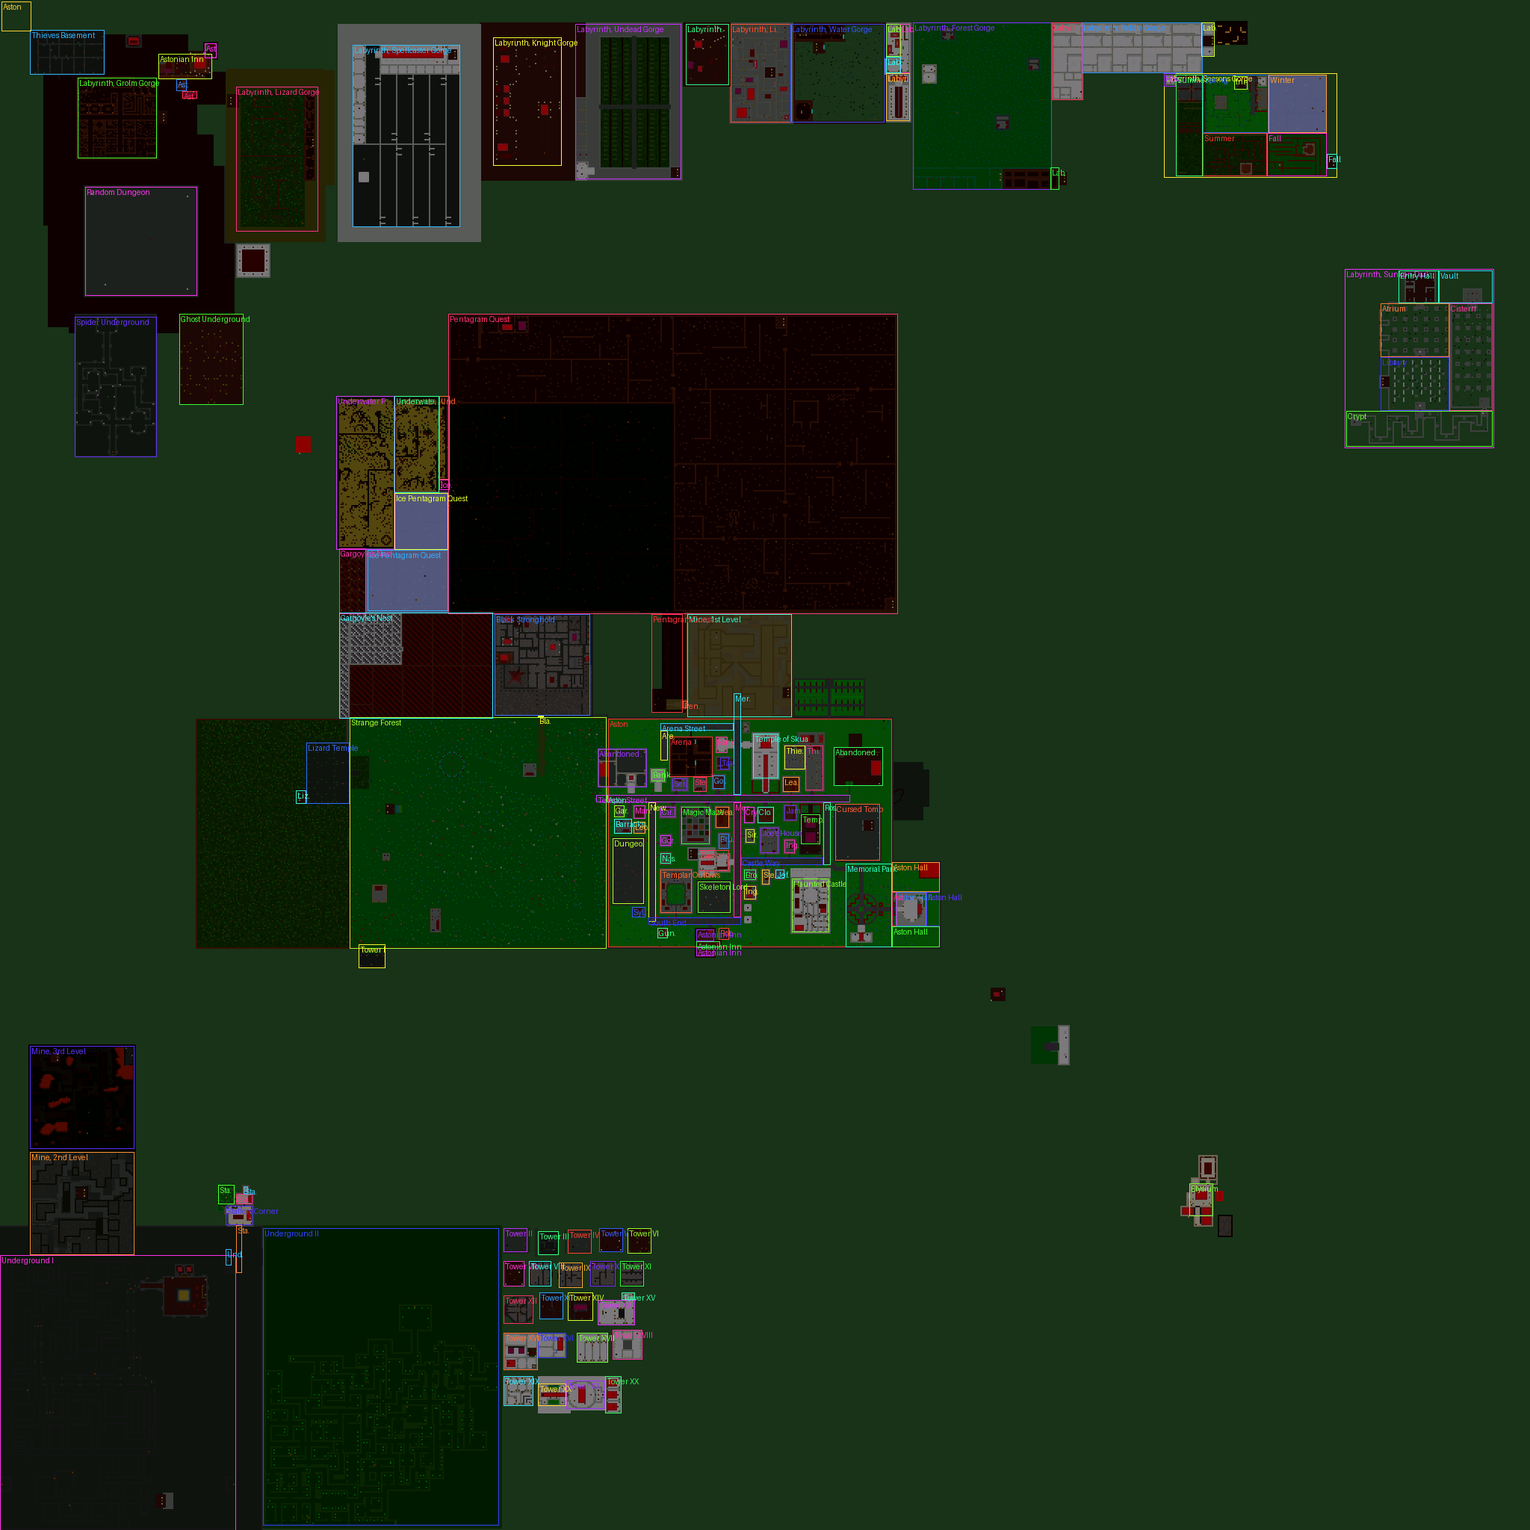
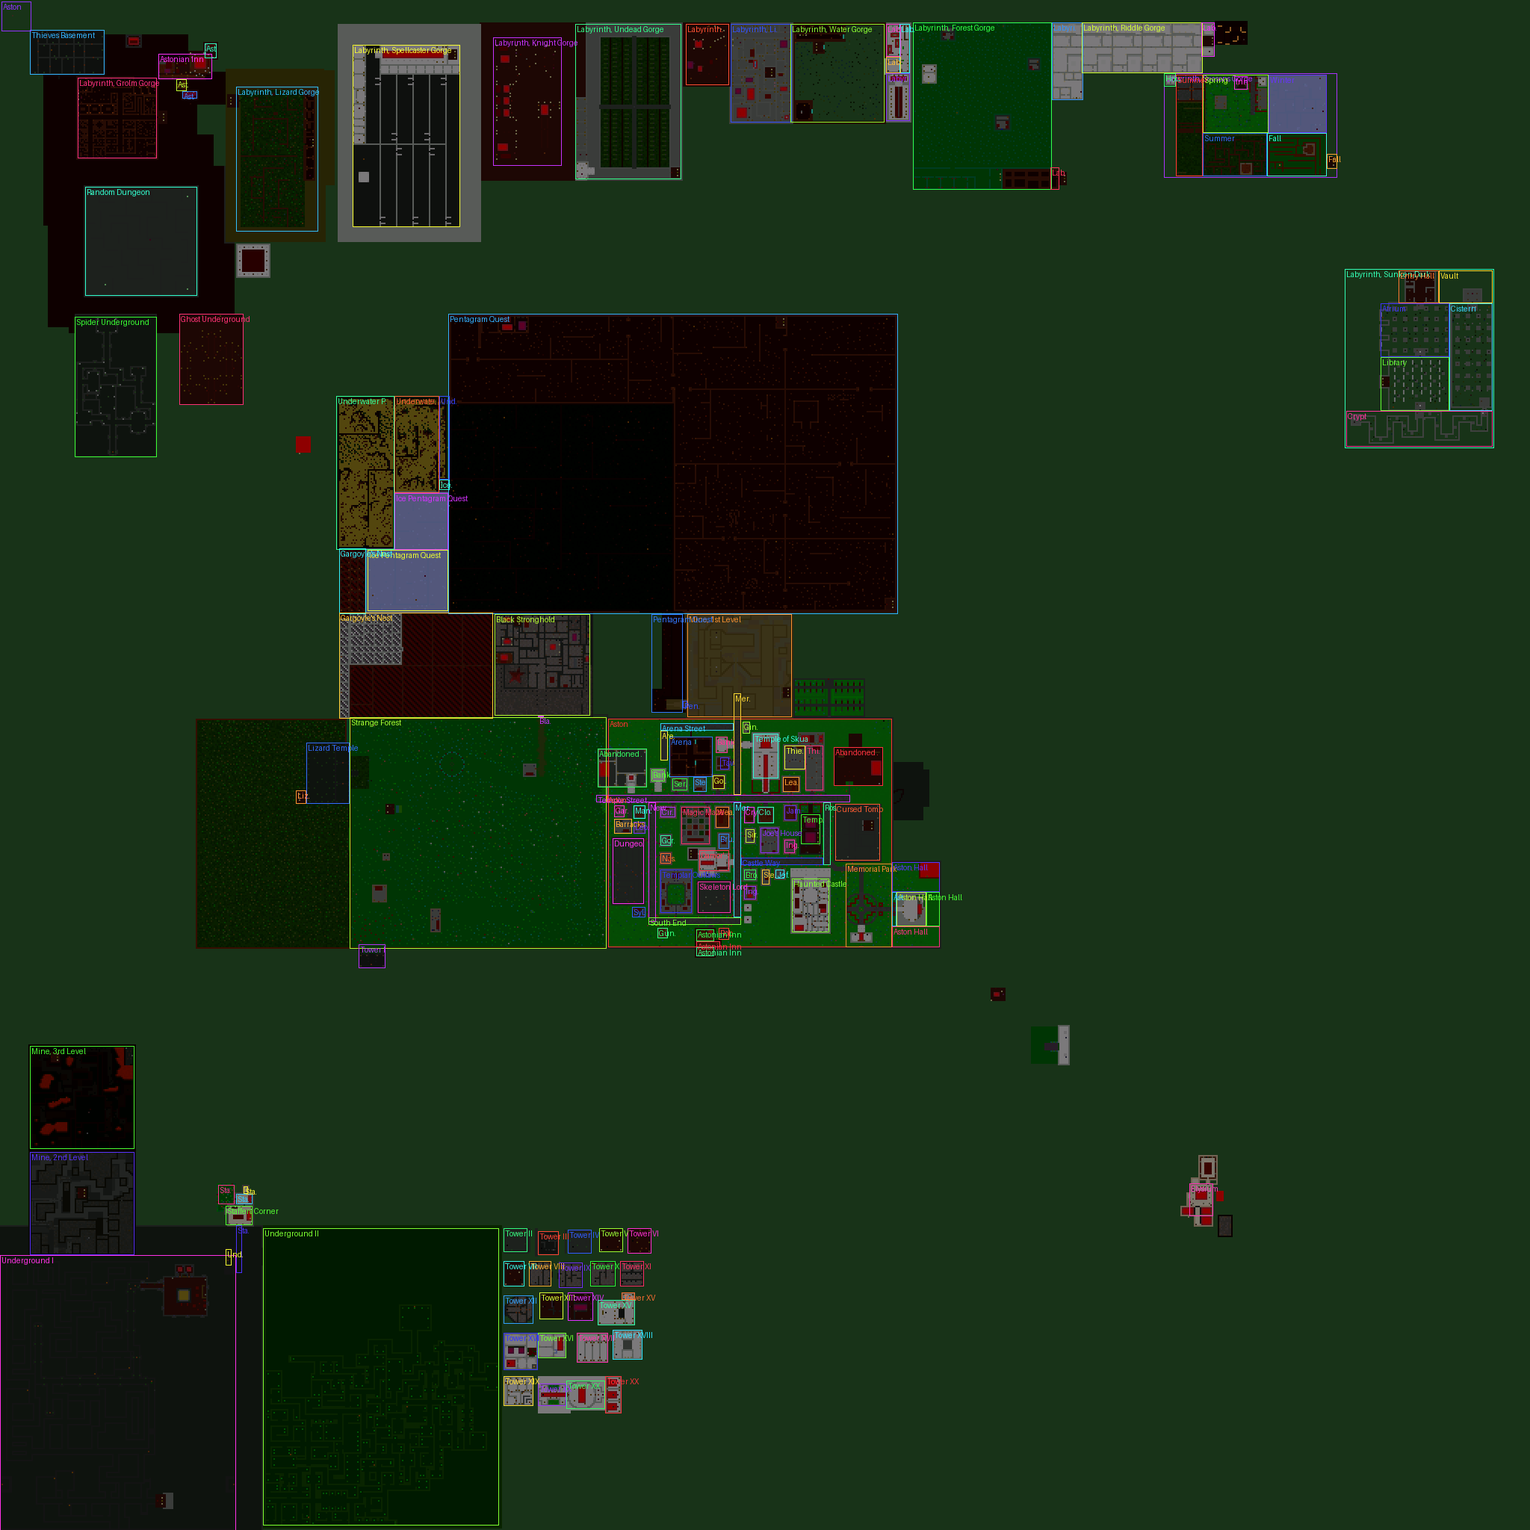
Aston zone names: Gina's Shop
Claude-Session: https://claude.ai/code/session_01MSjWpMgByR7PswdtguveBk

diff --git a/server/area.c b/server/area.c
@@ -57,6 +57,7 @@ struct area area[]={
         {621,440,       627,446,        "Gunther's House",              0},
         {621,481,       628,487,        "Robin's House",                0},
         {607,423,       613,431,        "Syleia's House",               0},     // just south of the Dungeon of Doors
+        {483,497,       490,501,        "Gina's Shop",                  0},     // by Merchant's Way, right outside the mines
         {539,411,       546,417,        "Garna's Shop",                 0},
         {539,424,       547,431,        "Manfred's House",              0},
         {548,411,       557,422,        "Barracks",                     1},

diff --git a/docs/world_zones.md b/docs/world_zones.md
@@ -43,125 +43,126 @@ Shown by `/who`, by NPCs when asked where you are, and in server logs. A spot in
 | 33 | Gunther's House | 621,440 | 627,446 | "in Gunther's House" |
 | 34 | Robin's House | 621,481 | 628,487 | "in Robin's House" |
 | 35 | Syleia's House | 607,423 | 613,431 | "in Syleia's House" |
-| 36 | Garna's Shop | 539,411 | 546,417 | "in Garna's Shop" |
-| 37 | Manfred's House | 539,424 | 547,431 | "in Manfred's House" |
-| 38 | Barracks | 548,411 | 557,422 | "in the Barracks" |
-| 39 | Leopold's House | 550,424 | 557,431 | "in Leopold's House" |
-| 40 | Serena's House | 521,450 | 528,459 | "in Serena's House" |
-| 41 | Magic Maze | 540,456 | 564,474 | "in the Magic Maze" |
-| 42 | Steven's House | 520,464 | 529,472 | "in Steven's House" |
-| 43 | Golden Armor Shop | 519,477 | 527,484 | "in the Golden Armor Shop" |
-| 44 | New Street | 537,434 | 616,438 | "on New Street" |
-| 45 | Gordon's House | 559,442 | 565,448 | "in Gordon's House" |
-| 46 | Nasir's House | 571,442 | 577,448 | "in Nasir's House" |
-| 47 | Templar Outlaws | 582,442 | 610,462 | "at Templar Outlaws" |
-| 48 | South End | 614,434 | 618,495 | "on South End" |
-| 49 | Skeleton Lord | 590,467 | 610,488 | "at Skeleton Lord" |
-| 50 | Merchant's Way | 537,491 | 613,495 | "on Merchant's Way" |
-| 51 | Merchant's Way | 464,491 | 531,495 | "on Merchant's Way" |
-| 52 | Ingrid's House | 593,498 | 601,505 | "in Ingrid's House" |
-| 53 | Abandoned Kwai Clan Hall | 501,400 | 526,432 | "in the Abandoned Kwai Clan Hall" |
-| 54 | Abandoned Gorn Clan Hall | 500,558 | 525,590 | "in the Abandoned Gorn Clan Hall" |
-| 55 | Arena | 493,448 | 519,476 | "in the Arena" |
-| 56 | Black Stronghold | 411,331 | 478,394 | "in the Black Stronghold" |
-| 57 | Dungeon of Doors | 561,410 | 604,430 | "in the Dungeon of Doors" |
-| 58 | Random Dungeon | 125,57 | 197,131 | "in the Random Dungeon" |
-| 59 | Mine, 1st Level | 411,460 | 479,529 | "in the Mine, 1st Level" |
-| 60 | Mine, 2nd Level | 771,20 | 839,89 | "in the Mine, 2nd Level" |
-| 61 | Mine, 3rd Level | 700,20 | 768,89 | "in the Mine, 3rd Level" |
-| 62 | Labyrinth, Grolm Gorge | 52,52 | 105,104 | "in the Labyrinth, Grolm Gorge" |
-| 63 | Labyrinth, Lizard Gorge | 58,158 | 154,212 | "in the Labyrinth, Lizard Gorge" |
-| 64 | Labyrinth, Spellcaster Gorge | 30,236 | 151,307 | "in the Labyrinth, Spellcaster Gorge" |
-| 65 | Labyrinth, Knight Gorge | 25,330 | 110,375 | "in the Labyrinth, Knight Gorge" |
-| 66 | Labyrinth, Undead Gorge | 16,385 | 119,455 | "in the Labyrinth, Undead Gorge" |
-| 67 | Labyrinth, Undead Gorge | 16,459 | 56,487 | "in the Labyrinth, Undead Gorge" |
-| 68 | Labyrinth, Light&Dark Gorge | 16,489 | 81,529 | "in the Labyrinth, Light&Dark Gorge" |
-| 69 | Labyrinth, Water Gorge | 16,529 | 81,591 | "in the Labyrinth, Water Gorge" |
-| 70 | Labyrinth, Final Entry | 16,593 | 37,602 | "in the Labyrinth, Final Entry" |
-| 71 | Labyrinth, Final Preparations | 16,602 | 48,608 | "in the Labyrinth, Final Preparations" |
-| 72 | Labyrinth, Final Test | 38,593 | 48,602 | "in the Labyrinth, Final Test" |
-| 73 | Labyrinth, Final Reward | 49,593 | 80,608 | "in the Labyrinth, Final Reward" |
-| 74 | Labyrinth, Forest Gorge | 15,611 | 126,703 | "in the Labyrinth, Forest Gorge" |
-| 75 | Labyrinth, Forest Gorge | 112,703 | 126,708 | "in the Labyrinth, Forest Gorge" |
-| 76 | Labyrinth, Riddle Gorge | 15,704 | 66,724 | "in the Labyrinth, Riddle Gorge" |
-| 77 | Labyrinth, Riddle Gorge | 15,724 | 48,804 | "in the Labyrinth, Riddle Gorge" |
-| 78 | Labyrinth, Riddle Gorge | 15,804 | 37,812 | "in the Labyrinth, Riddle Gorge" |
-| 79 | Labyrinth, Sunken Dark | 180,900 | 299,999 | "in the Labyrinth, Sunken Dark" |
-| 80 | Entry Hall | 181,936 | 202,962 | "in the Entry Hall" |
-| 81 | Atrium | 203,924 | 238,969 | "in the Atrium" |
-| 82 | Library | 239,924 | 274,969 | "in the Library" |
-| 83 | Crypt | 275,901 | 298,998 | "in the Crypt" |
-| 84 | Cistern | 203,970 | 274,998 | "in the Cistern" |
-| 85 | Vault | 181,963 | 202,998 | "in the Vault" |
-| 86 | Labyrinth, Seasons Gorge | 49,779 | 118,894 | "in the Labyrinth, Seasons Gorge" |
-| 87 | Hourglass Chamber | 49,779 | 57,786 | "in the Hourglass Chamber" |
-| 88 | Summer | 50,787 | 117,804 | "in Summer" |
-| 89 | Summer | 89,805 | 117,847 | "in Summer" |
-| 90 | Spring | 50,805 | 88,848 | "in Spring" |
-| 91 | Inn | 51,826 | 59,834 | "in the Inn" |
-| 92 | Fall | 89,848 | 117,887 | "in Fall" |
-| 93 | Fall | 103,888 | 112,894 | "in Fall" |
-| 94 | Winter | 50,849 | 88,887 | "in Winter" |
-| 95 | Spider Underground | 212,50 | 305,104 | "in the Spider Underground" |
-| 96 | Ghost Underground | 210,120 | 270,162 | "in the Ghost Underground" |
-| 97 | Pentagram Quest | 210,300 | 410,600 | "in the Pentagram Quest" |
-| 98 | Ice Pentagram Quest | 368,246 | 408,299 | "in the Ice Pentagram Quest" |
-| 99 | Ice Pentagram Quest | 330,264 | 367,299 | "in the Ice Pentagram Quest" |
-| 100 | Underwater Pentagram Quest | 265,225 | 367,263 | "in the Underwater Pentagram Quest" |
-| 101 | Underwater Pentagram Quest | 265,264 | 329,293 | "in the Underwater Pentagram Quest" |
-| 102 | Underwater Pentagram Quest | 265,294 | 320,300 | "in the Underwater Pentagram Quest" |
-| 103 | Underground II | 822,176 | 1020,333 | "in the Underground II" |
-| 104 | Elysium | 792,796 | 813,811 | "in the Elysium" |
-| 105 | Gargoyle's Nest | 367,227 | 410,244 | "in the Gargoyle's Nest" |
-| 106 | Gargoyle's Nest | 410,227 | 480,329 | "in the Gargoyle's Nest" |
-| 107 | Aston | 1,1 | 20,20 | "in Aston" |
-| 108 | Astonian Inn | 622,466 | 629,477 | "in the Astonian Inn" |
-| 109 | Astonian Inn | 630,466 | 633,481 | "in the Astonian Inn" |
-| 110 | Astonian Inn | 61,122 | 65,131 | "in the Astonian Inn" |
-| 111 | Astonian Inn | 53,118 | 60,124 | "in the Astonian Inn" |
-| 112 | Astonian Inn | 36,106 | 52,141 | "in the Astonian Inn" |
-| 113 | Astonian Inn | 29,137 | 38,144 | "in the Astonian Inn" |
-| 114 | Memorial Park | 578,566 | 633,596 | "in the Memorial Park" |
-| 115 | Staffers Corner | 820,158 | 851,161 | "in the Staffers Corner" |
-| 116 | Staffers Corner | 807,151 | 819,168 | "in the Staffers Corner" |
-| 117 | Staffers Corner | 793,146 | 805,156 | "in the Staffers Corner" |
-| 118 | Staffers Corner | 799,158 | 805,168 | "in the Staffers Corner" |
-| 119 | Staffers Corner | 794,163 | 798,165 | "in the Staffers Corner" |
-| 120 | Tower I | 632,240 | 647,257 | "in the Tower I" |
-| 121 | Tower II | 822,337 | 837,352 | "in the Tower II" |
-| 122 | Tower III | 824,360 | 839,373 | "in the Tower III" |
-| 123 | Tower IV | 823,380 | 838,395 | "in the Tower IV" |
-| 124 | Tower V | 822,401 | 837,416 | "in the Tower V" |
-| 125 | Tower VI | 822,420 | 838,435 | "in the Tower VI" |
-| 126 | Tower VII | 844,337 | 860,350 | "in the Tower VII" |
-| 127 | Tower VIII | 844,354 | 860,368 | "in the Tower VIII" |
-| 128 | Tower IX | 845,374 | 861,389 | "in the Tower IX" |
-| 129 | Tower X | 844,395 | 860,411 | "in the Tower X" |
-| 130 | Tower XI | 844,415 | 860,430 | "in the Tower XI" |
-| 131 | Tower XII | 867,337 | 885,356 | "in the Tower XII" |
-| 132 | Tower XIII | 865,361 | 882,376 | "in the Tower XIII" |
-| 133 | Tower XIV | 865,380 | 883,396 | "in the Tower XIV" |
-| 134 | Tower XV | 870,400 | 886,424 | "in the Tower XV" |
-| 135 | Tower XV | 865,416 | 869,424 | "in the Tower XV" |
-| 136 | Tower XVI | 892,337 | 916,359 | "in the Tower XVI" |
-| 137 | Tower XVI | 892,360 | 908,378 | "in the Tower XVI" |
-| 138 | Tower XVII | 892,386 | 911,406 | "in the Tower XVII" |
-| 139 | Tower XVIII | 890,410 | 909,429 | "in the Tower XVIII" |
-| 140 | Tower XIX | 921,337 | 940,356 | "in the Tower XIX" |
-| 141 | Tower XX | 926,360 | 940,378 | "in the Tower XX" |
-| 142 | Tower XX | 924,379 | 942,404 | "in the Tower XX" |
-| 143 | Tower XX | 921,405 | 945,415 | "in the Tower XX" |
-| 144 | Pentagram Quest | 411,436 | 476,456 | "in the Pentagram Quest" |
-| 145 | Aston Hall | 597,600 | 619,619 | "in Aston Hall" |
-| 146 | Lizard Temple Shrine | 529,198 | 537,204 | "in the Lizard Temple Shrine" |
-| 147 | Ice Pents Shrine | 321,294 | 327,300 | "in the Ice Pents Shrine" |
-| 148 | Lizard Temple Shrine | 529,198 | 537,204 | "in the Lizard Temple Shrine" |
-| 149 | Aston Hall | 577,597 | 596,628 | "in the Aston Hall" |
-| 150 | Aston Hall | 597,620 | 619,628 | "in the Aston Hall" |
-| 151 | Aston Hall | 620,597 | 633,628 | "in the Aston Hall" |
-| 152 | Aston Hall | 597,597 | 619,599 | "in the Aston Hall" |
-| 153 | Underground I | 836,151 | 846,154 | "in the Underground I" |
-| 154 | Black Stronghold | 479,360 | 479,363 | "in the Black Stronghold" |
-| 155 | Astonian Inn | 634,466 | 639,477 | "in the Astonian Inn" |
-| 156 | Aston | 532,406 | 536,406 | "in Aston" |
-| 157 | Pentagram Quest | 469,457 | 473,459 | "in the Pentagram Quest" |
+| 36 | Gina's Shop | 483,497 | 490,501 | "in Gina's Shop" |
+| 37 | Garna's Shop | 539,411 | 546,417 | "in Garna's Shop" |
+| 38 | Manfred's House | 539,424 | 547,431 | "in Manfred's House" |
+| 39 | Barracks | 548,411 | 557,422 | "in the Barracks" |
+| 40 | Leopold's House | 550,424 | 557,431 | "in Leopold's House" |
+| 41 | Serena's House | 521,450 | 528,459 | "in Serena's House" |
+| 42 | Magic Maze | 540,456 | 564,474 | "in the Magic Maze" |
+| 43 | Steven's House | 520,464 | 529,472 | "in Steven's House" |
+| 44 | Golden Armor Shop | 519,477 | 527,484 | "in the Golden Armor Shop" |
+| 45 | New Street | 537,434 | 616,438 | "on New Street" |
+| 46 | Gordon's House | 559,442 | 565,448 | "in Gordon's House" |
+| 47 | Nasir's House | 571,442 | 577,448 | "in Nasir's House" |
+| 48 | Templar Outlaws | 582,442 | 610,462 | "at Templar Outlaws" |
+| 49 | South End | 614,434 | 618,495 | "on South End" |
+| 50 | Skeleton Lord | 590,467 | 610,488 | "at Skeleton Lord" |
+| 51 | Merchant's Way | 537,491 | 613,495 | "on Merchant's Way" |
+| 52 | Merchant's Way | 464,491 | 531,495 | "on Merchant's Way" |
+| 53 | Ingrid's House | 593,498 | 601,505 | "in Ingrid's House" |
+| 54 | Abandoned Kwai Clan Hall | 501,400 | 526,432 | "in the Abandoned Kwai Clan Hall" |
+| 55 | Abandoned Gorn Clan Hall | 500,558 | 525,590 | "in the Abandoned Gorn Clan Hall" |
+| 56 | Arena | 493,448 | 519,476 | "in the Arena" |
+| 57 | Black Stronghold | 411,331 | 478,394 | "in the Black Stronghold" |
+| 58 | Dungeon of Doors | 561,410 | 604,430 | "in the Dungeon of Doors" |
+| 59 | Random Dungeon | 125,57 | 197,131 | "in the Random Dungeon" |
+| 60 | Mine, 1st Level | 411,460 | 479,529 | "in the Mine, 1st Level" |
+| 61 | Mine, 2nd Level | 771,20 | 839,89 | "in the Mine, 2nd Level" |
+| 62 | Mine, 3rd Level | 700,20 | 768,89 | "in the Mine, 3rd Level" |
+| 63 | Labyrinth, Grolm Gorge | 52,52 | 105,104 | "in the Labyrinth, Grolm Gorge" |
+| 64 | Labyrinth, Lizard Gorge | 58,158 | 154,212 | "in the Labyrinth, Lizard Gorge" |
+| 65 | Labyrinth, Spellcaster Gorge | 30,236 | 151,307 | "in the Labyrinth, Spellcaster Gorge" |
+| 66 | Labyrinth, Knight Gorge | 25,330 | 110,375 | "in the Labyrinth, Knight Gorge" |
+| 67 | Labyrinth, Undead Gorge | 16,385 | 119,455 | "in the Labyrinth, Undead Gorge" |
+| 68 | Labyrinth, Undead Gorge | 16,459 | 56,487 | "in the Labyrinth, Undead Gorge" |
+| 69 | Labyrinth, Light&Dark Gorge | 16,489 | 81,529 | "in the Labyrinth, Light&Dark Gorge" |
+| 70 | Labyrinth, Water Gorge | 16,529 | 81,591 | "in the Labyrinth, Water Gorge" |
+| 71 | Labyrinth, Final Entry | 16,593 | 37,602 | "in the Labyrinth, Final Entry" |
+| 72 | Labyrinth, Final Preparations | 16,602 | 48,608 | "in the Labyrinth, Final Preparations" |
+| 73 | Labyrinth, Final Test | 38,593 | 48,602 | "in the Labyrinth, Final Test" |
+| 74 | Labyrinth, Final Reward | 49,593 | 80,608 | "in the Labyrinth, Final Reward" |
+| 75 | Labyrinth, Forest Gorge | 15,611 | 126,703 | "in the Labyrinth, Forest Gorge" |
+| 76 | Labyrinth, Forest Gorge | 112,703 | 126,708 | "in the Labyrinth, Forest Gorge" |
+| 77 | Labyrinth, Riddle Gorge | 15,704 | 66,724 | "in the Labyrinth, Riddle Gorge" |
+| 78 | Labyrinth, Riddle Gorge | 15,724 | 48,804 | "in the Labyrinth, Riddle Gorge" |
+| 79 | Labyrinth, Riddle Gorge | 15,804 | 37,812 | "in the Labyrinth, Riddle Gorge" |
+| 80 | Labyrinth, Sunken Dark | 180,900 | 299,999 | "in the Labyrinth, Sunken Dark" |
+| 81 | Entry Hall | 181,936 | 202,962 | "in the Entry Hall" |
+| 82 | Atrium | 203,924 | 238,969 | "in the Atrium" |
+| 83 | Library | 239,924 | 274,969 | "in the Library" |
+| 84 | Crypt | 275,901 | 298,998 | "in the Crypt" |
+| 85 | Cistern | 203,970 | 274,998 | "in the Cistern" |
+| 86 | Vault | 181,963 | 202,998 | "in the Vault" |
+| 87 | Labyrinth, Seasons Gorge | 49,779 | 118,894 | "in the Labyrinth, Seasons Gorge" |
+| 88 | Hourglass Chamber | 49,779 | 57,786 | "in the Hourglass Chamber" |
+| 89 | Summer | 50,787 | 117,804 | "in Summer" |
+| 90 | Summer | 89,805 | 117,847 | "in Summer" |
+| 91 | Spring | 50,805 | 88,848 | "in Spring" |
+| 92 | Inn | 51,826 | 59,834 | "in the Inn" |
+| 93 | Fall | 89,848 | 117,887 | "in Fall" |
+| 94 | Fall | 103,888 | 112,894 | "in Fall" |
+| 95 | Winter | 50,849 | 88,887 | "in Winter" |
+| 96 | Spider Underground | 212,50 | 305,104 | "in the Spider Underground" |
+| 97 | Ghost Underground | 210,120 | 270,162 | "in the Ghost Underground" |
+| 98 | Pentagram Quest | 210,300 | 410,600 | "in the Pentagram Quest" |
+| 99 | Ice Pentagram Quest | 368,246 | 408,299 | "in the Ice Pentagram Quest" |
+| 100 | Ice Pentagram Quest | 330,264 | 367,299 | "in the Ice Pentagram Quest" |
+| 101 | Underwater Pentagram Quest | 265,225 | 367,263 | "in the Underwater Pentagram Quest" |
+| 102 | Underwater Pentagram Quest | 265,264 | 329,293 | "in the Underwater Pentagram Quest" |
+| 103 | Underwater Pentagram Quest | 265,294 | 320,300 | "in the Underwater Pentagram Quest" |
+| 104 | Underground II | 822,176 | 1020,333 | "in the Underground II" |
+| 105 | Elysium | 792,796 | 813,811 | "in the Elysium" |
+| 106 | Gargoyle's Nest | 367,227 | 410,244 | "in the Gargoyle's Nest" |
+| 107 | Gargoyle's Nest | 410,227 | 480,329 | "in the Gargoyle's Nest" |
+| 108 | Aston | 1,1 | 20,20 | "in Aston" |
+| 109 | Astonian Inn | 622,466 | 629,477 | "in the Astonian Inn" |
+| 110 | Astonian Inn | 630,466 | 633,481 | "in the Astonian Inn" |
+| 111 | Astonian Inn | 61,122 | 65,131 | "in the Astonian Inn" |
+| 112 | Astonian Inn | 53,118 | 60,124 | "in the Astonian Inn" |
+| 113 | Astonian Inn | 36,106 | 52,141 | "in the Astonian Inn" |
+| 114 | Astonian Inn | 29,137 | 38,144 | "in the Astonian Inn" |
+| 115 | Memorial Park | 578,566 | 633,596 | "in the Memorial Park" |
+| 116 | Staffers Corner | 820,158 | 851,161 | "in the Staffers Corner" |
+| 117 | Staffers Corner | 807,151 | 819,168 | "in the Staffers Corner" |
+| 118 | Staffers Corner | 793,146 | 805,156 | "in the Staffers Corner" |
+| 119 | Staffers Corner | 799,158 | 805,168 | "in the Staffers Corner" |
+| 120 | Staffers Corner | 794,163 | 798,165 | "in the Staffers Corner" |
+| 121 | Tower I | 632,240 | 647,257 | "in the Tower I" |
+| 122 | Tower II | 822,337 | 837,352 | "in the Tower II" |
+| 123 | Tower III | 824,360 | 839,373 | "in the Tower III" |
+| 124 | Tower IV | 823,380 | 838,395 | "in the Tower IV" |
+| 125 | Tower V | 822,401 | 837,416 | "in the Tower V" |
+| 126 | Tower VI | 822,420 | 838,435 | "in the Tower VI" |
+| 127 | Tower VII | 844,337 | 860,350 | "in the Tower VII" |
+| 128 | Tower VIII | 844,354 | 860,368 | "in the Tower VIII" |
+| 129 | Tower IX | 845,374 | 861,389 | "in the Tower IX" |
+| 130 | Tower X | 844,395 | 860,411 | "in the Tower X" |
+| 131 | Tower XI | 844,415 | 860,430 | "in the Tower XI" |
+| 132 | Tower XII | 867,337 | 885,356 | "in the Tower XII" |
+| 133 | Tower XIII | 865,361 | 882,376 | "in the Tower XIII" |
+| 134 | Tower XIV | 865,380 | 883,396 | "in the Tower XIV" |
+| 135 | Tower XV | 870,400 | 886,424 | "in the Tower XV" |
+| 136 | Tower XV | 865,416 | 869,424 | "in the Tower XV" |
+| 137 | Tower XVI | 892,337 | 916,359 | "in the Tower XVI" |
+| 138 | Tower XVI | 892,360 | 908,378 | "in the Tower XVI" |
+| 139 | Tower XVII | 892,386 | 911,406 | "in the Tower XVII" |
+| 140 | Tower XVIII | 890,410 | 909,429 | "in the Tower XVIII" |
+| 141 | Tower XIX | 921,337 | 940,356 | "in the Tower XIX" |
+| 142 | Tower XX | 926,360 | 940,378 | "in the Tower XX" |
+| 143 | Tower XX | 924,379 | 942,404 | "in the Tower XX" |
+| 144 | Tower XX | 921,405 | 945,415 | "in the Tower XX" |
+| 145 | Pentagram Quest | 411,436 | 476,456 | "in the Pentagram Quest" |
+| 146 | Aston Hall | 597,600 | 619,619 | "in Aston Hall" |
+| 147 | Lizard Temple Shrine | 529,198 | 537,204 | "in the Lizard Temple Shrine" |
+| 148 | Ice Pents Shrine | 321,294 | 327,300 | "in the Ice Pents Shrine" |
+| 149 | Lizard Temple Shrine | 529,198 | 537,204 | "in the Lizard Temple Shrine" |
+| 150 | Aston Hall | 577,597 | 596,628 | "in the Aston Hall" |
+| 151 | Aston Hall | 597,620 | 619,628 | "in the Aston Hall" |
+| 152 | Aston Hall | 620,597 | 633,628 | "in the Aston Hall" |
+| 153 | Aston Hall | 597,597 | 619,599 | "in the Aston Hall" |
+| 154 | Underground I | 836,151 | 846,154 | "in the Underground I" |
+| 155 | Black Stronghold | 479,360 | 479,363 | "in the Black Stronghold" |
+| 156 | Astonian Inn | 634,466 | 639,477 | "in the Astonian Inn" |
+| 157 | Aston | 532,406 | 536,406 | "in Aston" |
+| 158 | Pentagram Quest | 469,457 | 473,459 | "in the Pentagram Quest" |

diff --git a/CHANGES.md b/CHANGES.md
@@ -189,7 +189,7 @@ A new labyrinth part after Lab 10 (map 180,900 - 299,999). Its layout is an Exce
   - **Spider Underground** (through the hole in the Abandoned Kwai Clan Hall, Spider Queen) and **Ghost Underground** (through the hole in the Abandoned Gorn Clan Hall, Ghost King) had no name.
   - **Aston streets**: Temple Street runs the whole way from the town gate to the Gorn Clan Hall (Rose Street starts south of it), Merchant's Way goes on north of Temple Street up to the mines, and the street around the arena is **Arena Street**, with new street signs where it meets Merchant's Way (plus Merchant's Way signs north of Temple Street; `tools/world/aston_signs.txt`).
   - The second **Bank**, across from the Temple of Skua, had no name.
-  - The shop labelled "Cloth Armor Shop" is Geoffrey's **Crystal Armor Shop** (its sign says so); Ruth's real **Cloth Armor Shop**, across from the Temple of Skua, had no name. On South End, **Gunther's House** and **Robin's House** now have names. So does **Syleia's House**, just south of the Dungeon of Doors.
+  - The shop labelled "Cloth Armor Shop" is Geoffrey's **Crystal Armor Shop** (its sign says so); Ruth's real **Cloth Armor Shop**, across from the Temple of Skua, had no name. On South End, **Gunther's House** and **Robin's House** now have names. So do **Syleia's House**, just south of the Dungeon of Doors, and **Gina's Shop**, right outside the mines.
   - **Steven's House** reached into the arena; it now covers the house only.
   - Four buildings west of New Street now have names: **Garna's Shop** (torches, lock picks, flasks), **Manfred's House**, **Leopold's House** and the **Barracks** (Peacekeepers and a Cityguard).
   - **Ice Pentagram Quest** was one rectangle that also took in part of the water next to it; it is now two rectangles around the ice only, and the water is named **Underwater Pentagram Quest**.
